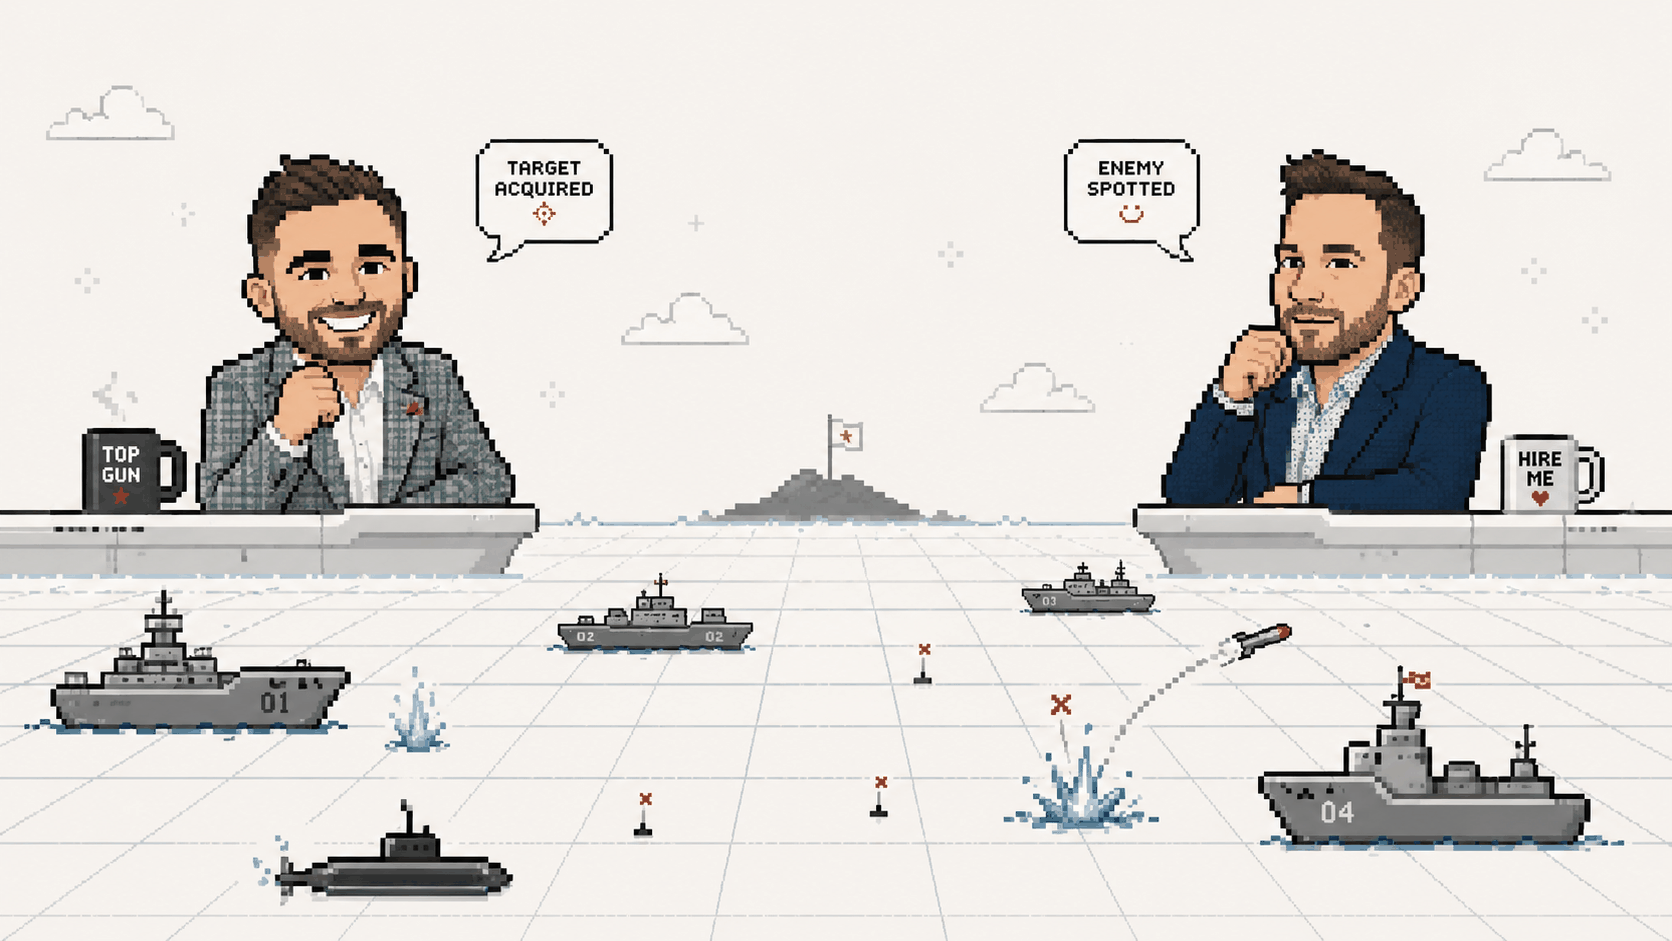
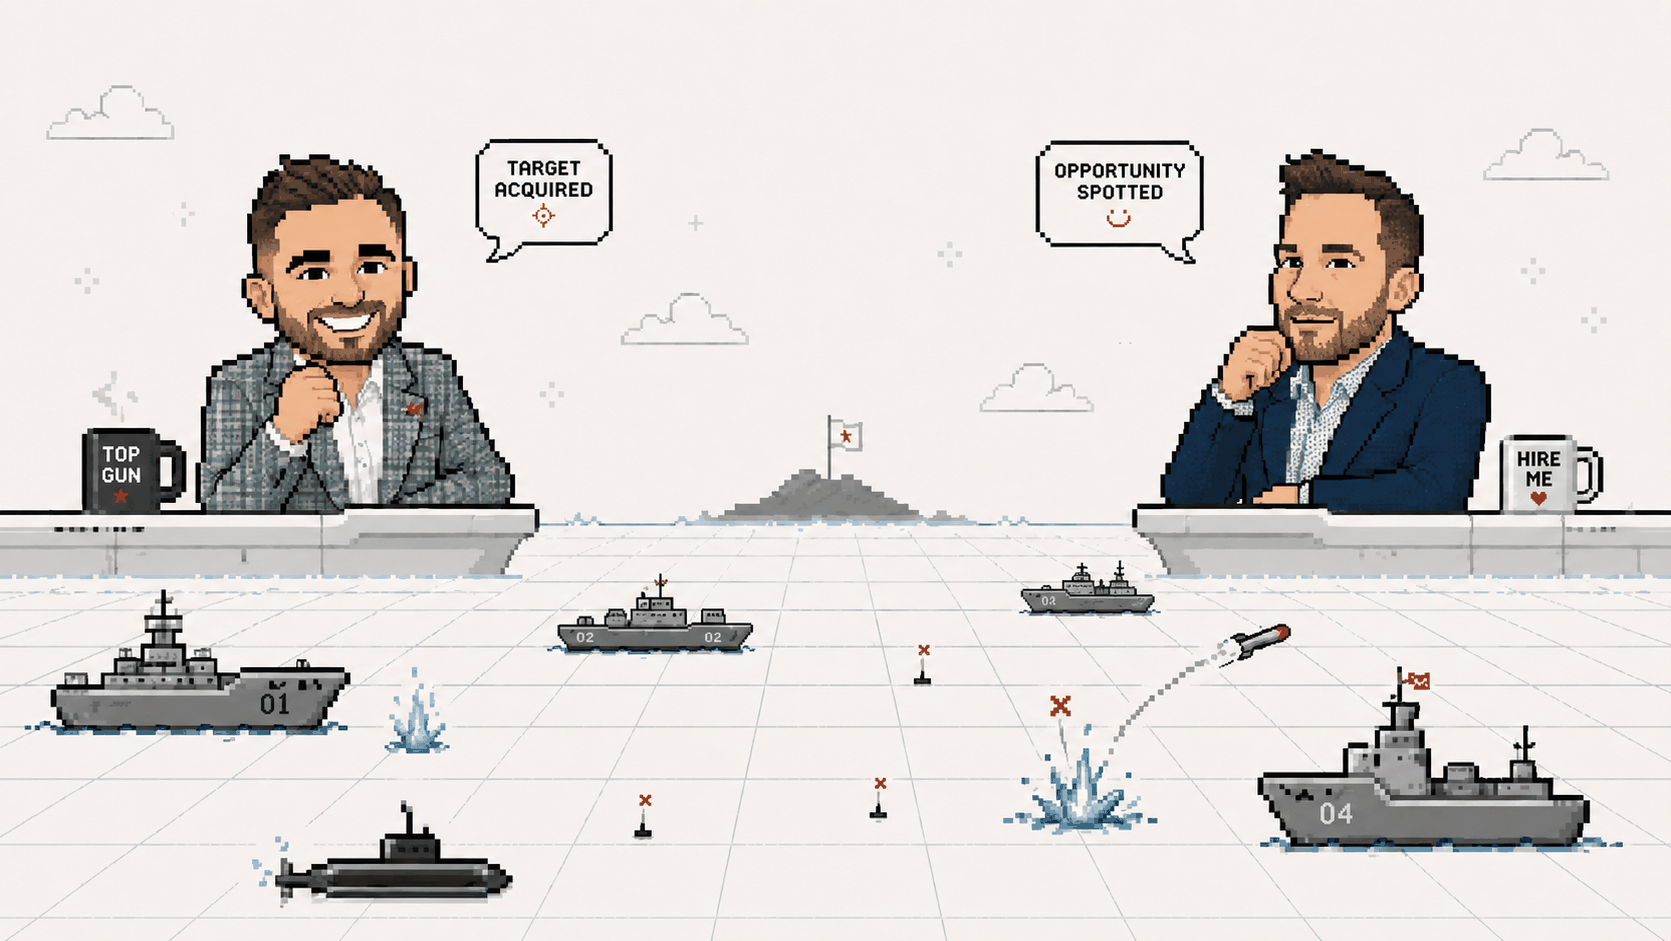
Swap hero artwork and keep commanders uncropped on ultrawide screens

diff --git a/style.css b/style.css
@@ -271,10 +271,21 @@ body.reveal-enemy .board.enemy .cell.ship { background: repeating-linear-gradien
 #log div.you { color: var(--ink); }
 #log div.ai { color: var(--sunk); }
 
+@media (min-width: 1700px) {
+  /* cover scales the art by width, so a capped band crops further into the
+     heads the wider the viewport gets */
+  #hero {
+    height: clamp(360px, 19vw, 440px);
+    background-position: center 16%;
+  }
+}
+
 @media (max-width: 900px) {
   #hero {
     height: clamp(140px, 26vw, 220px);
     background-position: center 22%;
+    -webkit-mask-image: linear-gradient(to bottom, #000 0%, #000 46%, rgba(0, 0, 0, 0.4) 74%, transparent 100%);
+    mask-image: linear-gradient(to bottom, #000 0%, #000 46%, rgba(0, 0, 0, 0.4) 74%, transparent 100%);
   }
   header { margin-top: -18px; }
 }
